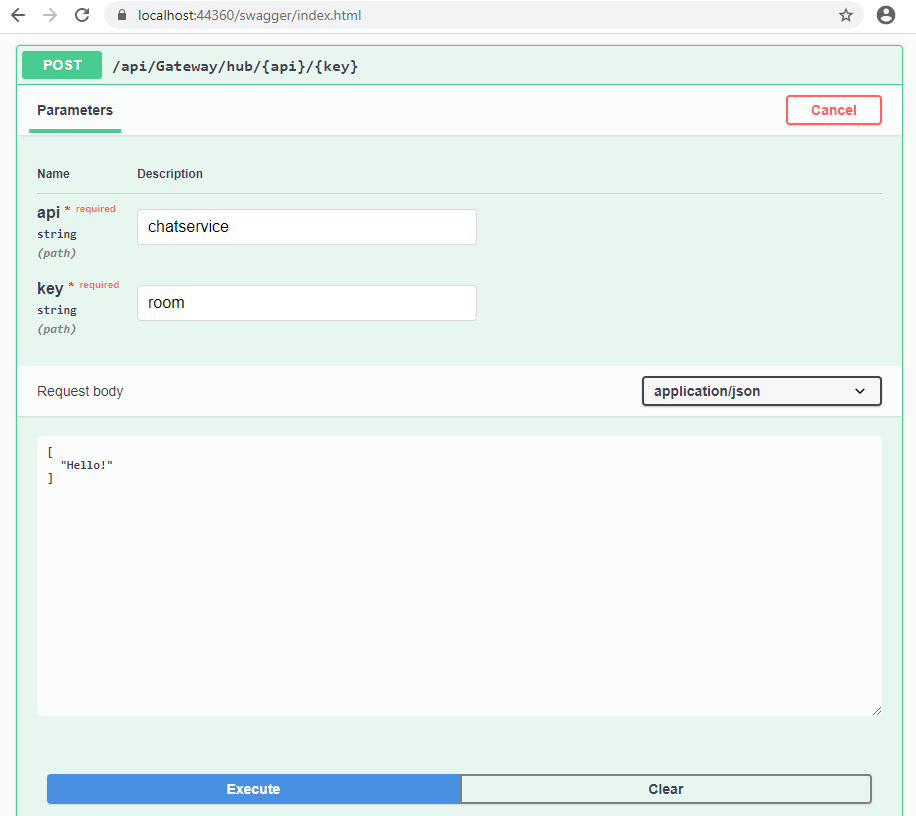
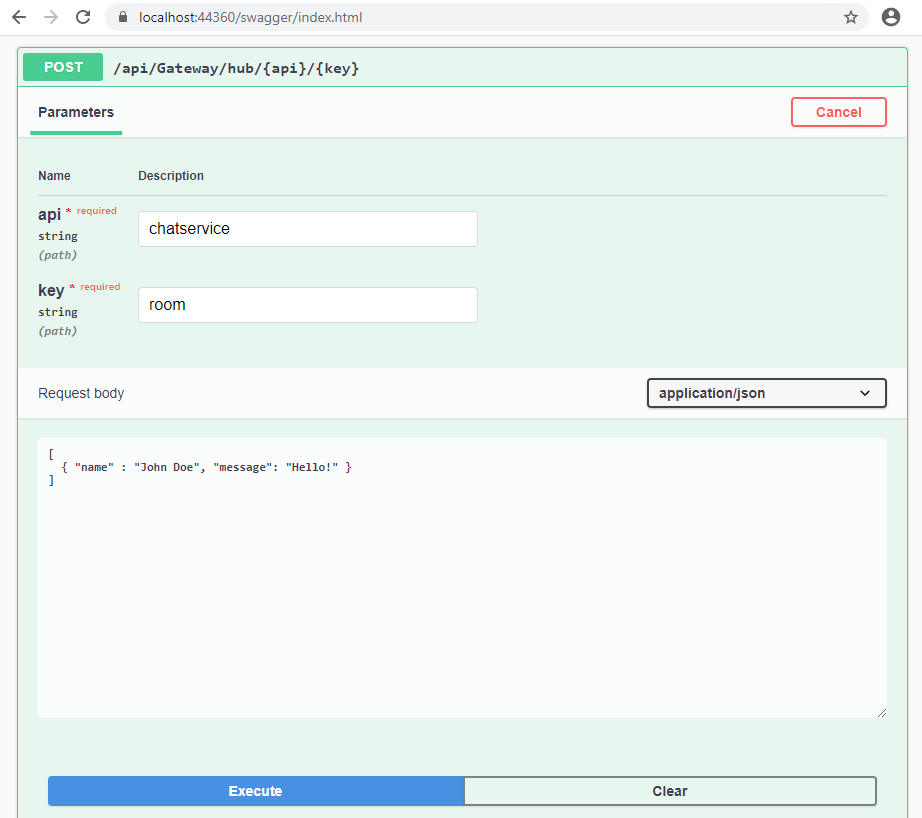
expanded example for web sockets.

diff --git a/Backend.Hubs/Hubs/ChatHub.cs b/Backend.Hubs/Hubs/ChatHub.cs
@@ -1,15 +1,14 @@
-using Microsoft.AspNet.SignalR.Hubs;
+using Backend.Hubs.Hubs.Requests;
 using Microsoft.AspNetCore.SignalR;
 using System.Threading.Tasks;
 
 namespace Backend.Hubs.Hubs
 {
-    [HubName("ChatHub")]
     public class ChatHub : Hub
     {
-        public async Task SendMessage(string msg)
+        public async Task SendMessage(Request request)
         {
-            await base.Clients.All.SendAsync("ReceiveMessage", msg);
+            await base.Clients.All.SendAsync("ReceiveMessage", request.Name, request.Message);
         }
     }
 }

diff --git a/ApiGateway.API/Application/ApiOrchestration.cs b/ApiGateway.API/Application/ApiOrchestration.cs
@@ -44,7 +44,9 @@ namespace ApiGateway.API
 
         private static HubConnection BuildHubConnection(HubConnectionBuilder builder)
         {
-            return builder.WithUrl("https://localhost:44339/chathub").Build();
+            return builder.WithUrl("https://localhost:44339/chathub")
+                          .AddNewtonsoftJsonProtocol()
+                          .Build();
         }
     }
 }

diff --git a/Backend.Hubs/Startup.cs b/Backend.Hubs/Startup.cs
@@ -24,7 +24,7 @@ namespace Backend.Hubs
                     .AllowAnyHeader()
                     .AllowAnyOrigin();
             }));
-            services.AddSignalR();            
+            services.AddSignalR().AddNewtonsoftJsonProtocol();
         }
 
         // This method gets called by the runtime. Use this method to configure the HTTP request pipeline.

diff --git a/Backend.Hubs/Hubs/Requests/Request.cs b/Backend.Hubs/Hubs/Requests/Request.cs
@@ -1,0 +1,8 @@
+namespace Backend.Hubs.Hubs.Requests
+{
+    public class Request
+    {
+        public string Name { get; set; }
+        public string Message { get; set; }
+    }
+}

diff --git a/Docs/README_WebSockets.md b/Docs/README_WebSockets.md
@@ -13,7 +13,9 @@ orchestrator.AddHub("chatservice", BuildHubConnection)
 ```C#
 private static HubConnection BuildHubConnection(HubConnectionBuilder builder)
 {
-    return builder.WithUrl("http://localhost:53353/ChatHub").Build();
+    return builder.WithUrl("http://localhost:53353/ChatHub")
+                  .AddNewtonsoftJsonProtocol()
+                  .Build();
 }
 ```
 
